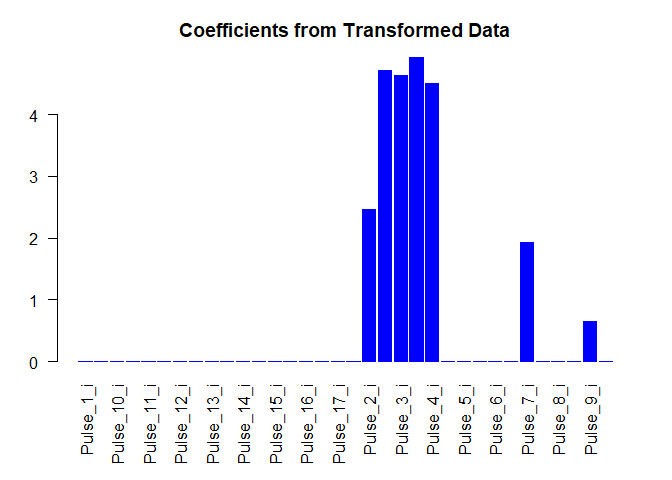
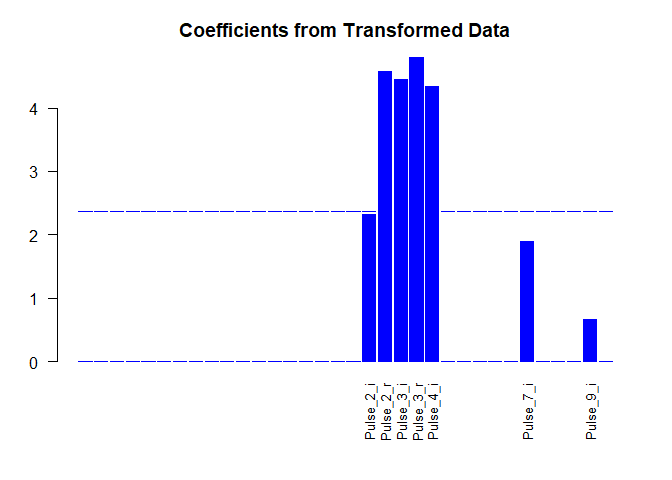
Update to Goose Bay case study to improve wording and refine figures.

diff --git a/Cases/Goose_Bay/README.md b/Cases/Goose_Bay/README.md
@@ -1,7 +1,7 @@
 ---
 title: "LLE: Goose Bay Case Study"
 author: "Jason Orender"
-date: "2022-10-29"
+date: "2022-11-06"
 output: 
   html_document: 
     keep_md: yes
@@ -77,6 +77,41 @@ function resulting from the complex electromagnetic signal."
 ```
 
 ```
+## Loading required package: gglasso
+```
+
+```
+## Warning: package 'gglasso' was built under R version 4.2.1
+```
+
+```
+## Loading required package: randomForest
+```
+
+```
+## Warning: package 'randomForest' was built under R version 4.2.1
+```
+
+```
+## randomForest 4.7-1.1
+```
+
+```
+## Type rfNews() to see new features/changes/bug fixes.
+```
+
+```
+## 
+## Attaching package: 'randomForest'
+```
+
+```
+## The following object is masked from 'package:dplyr':
+## 
+##     combine
+```
+
+```
 ## Loading required package: openssl
 ```
 
@@ -94,7 +129,11 @@ function resulting from the complex electromagnetic signal."
 The LASSO with transformed data (shown immediately below) again exceeded the
 performance the LASSO with the original un-transformed data (shown below the
 figures for the transformed data) and nearly matched the neural network that was
-specifically tuned and used to analyze the data in the original paper.
+specifically tuned and used to analyze the data in the original paper.  Note
+also the similar training and testing results for the transformed data, while
+there is a large disparity between the training and testing results for the un-
+transformed data.  This is an example of how the transformed data resists
+overfitting.
 
 
 ```
@@ -104,6 +143,12 @@ specifically tuned and used to analyze the data in the original paper.
 ```
 ## 
 ## Attaching package: 'gridExtra'
+```
+
+```
+## The following object is masked from 'package:randomForest':
+## 
+##     combine
 ```
 
 ```
